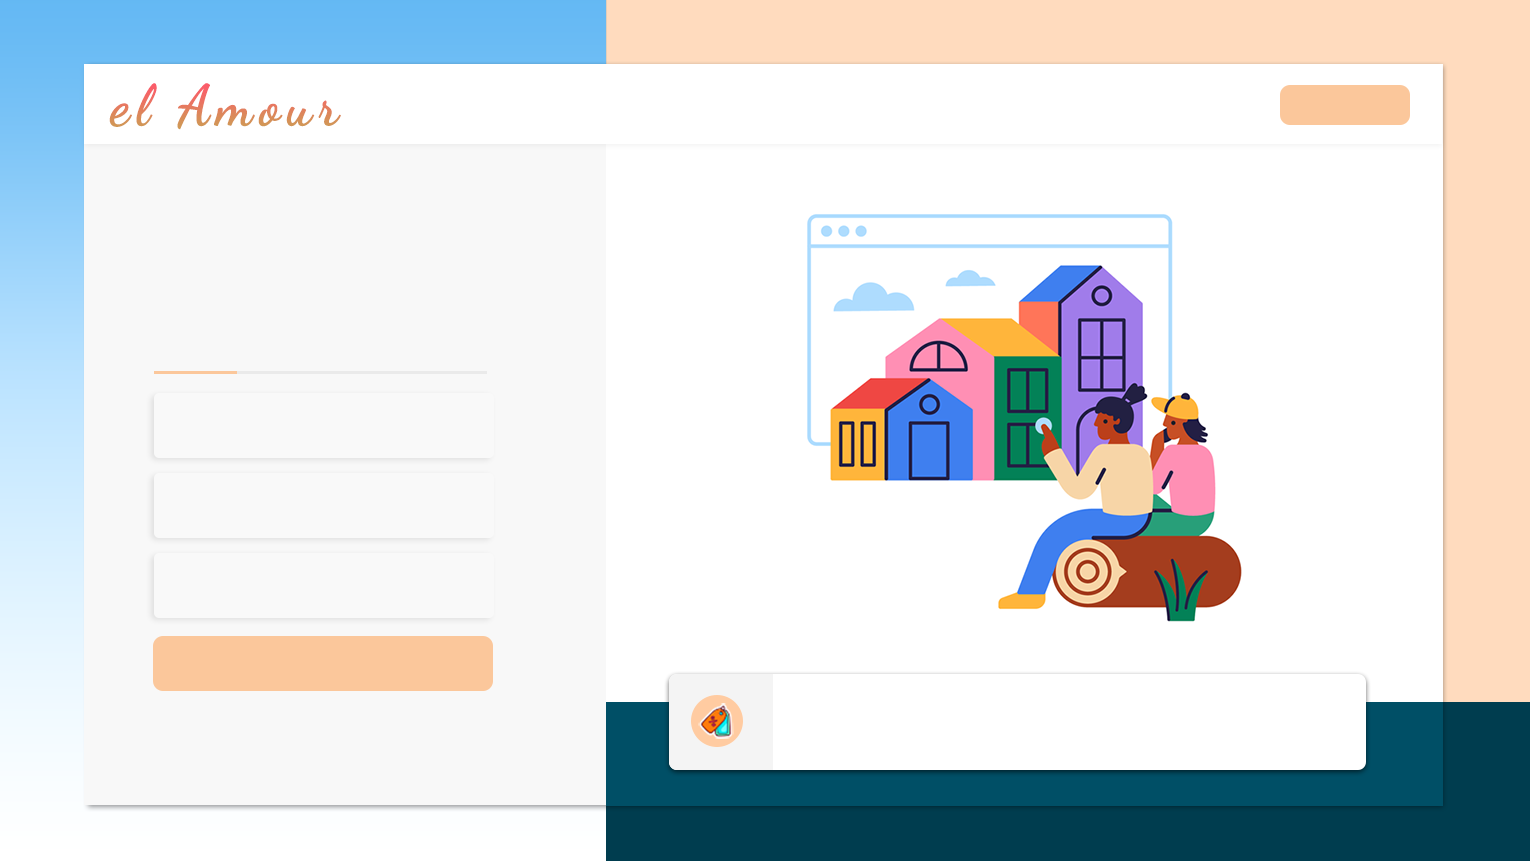
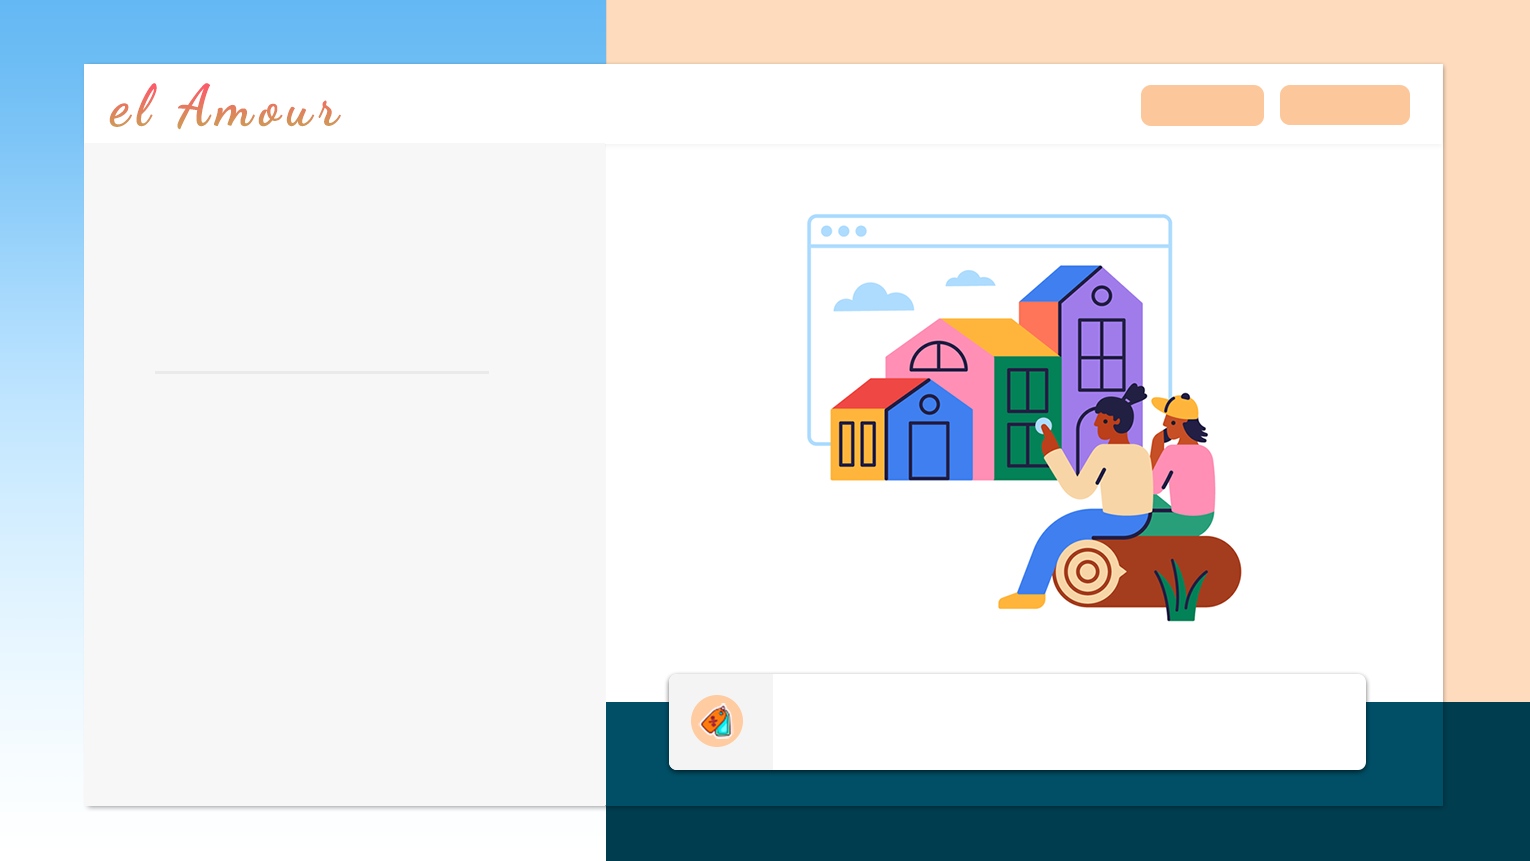
Add files via upload

Changed region(s): [[0.0922, 0.7247, 0.3379, 0.8153], [0.7373, 0.0906, 0.8294, 0.151], [0.1229, 0.4228, 0.1536, 0.453]]

diff --git a/Signup.py b/Signup.py
@@ -4,7 +4,39 @@ root=Tk()
 root.geometry("1920x1080")
 root.wm_attributes('-fullscreen', 'True')
 
-img=PhotoImage(file=r"C:\Users\Anmol\Documents\My Vasiyat\python\Meet Project\Assets\Signup_bg.png")
+def login():
+    show_frame(login_frame)
+    ul.place(x=245,y=373,width=60,height=3)
+    rg_btn.config(bg="white",fg="black",activebackground="white",activeforeground="black")
+    rg_btn.place(x=1282,y=87,width=130,height=40)
+    lg_btn.config(fg="white",bg="#fbc79b",activebackground="#fbc79b",activeforeground="white")
+    lg_btn.place(x=1148,y=90,width=115,height=35)
+
+def signup():
+    show_frame(signup_frame)
+    ul.place(x=155,y=373,width=85,height=3)
+    rg_btn.config(bg="#fbc79b",fg="white",activebackground="#fbc79b",activeforeground="white")
+    rg_btn.place(x=1290,y=90,width=115,height=35)
+    lg_btn.config(fg="black",bg="white",activebackground="white",activeforeground="black")
+    lg_btn.place(x=1143,y=87,width=123,height=41)
+
+def show_frame(frame):
+    frame.tkraise()
+
+signup_frame=Frame(root,bd=0,relief=FLAT,bg="#f7f7f7")
+
+s_img=PhotoImage(file="./Assets/Signup.png")
+Label(signup_frame,image=s_img).place(x=0,y=0)
+
+login_frame=Frame(root,relief=FLAT,bg="#f7f7f7")
+
+l_img=PhotoImage(file="./Assets/login.png")
+Label(login_frame,image=l_img).place(x=0,y=0)
+
+for frame in (signup_frame, login_frame,):
+    frame.place(x=155,y=390,width=340,height=310)
+
+img=PhotoImage(file="./Assets/Signup_bg.png")
 Label(root,image=img).place(x=0,y=0)
 
 Label(root,text="Best Price Rooms Available",font=("Arial",10,"bold"),bg="white").place(x=785,y=685)
@@ -18,29 +50,45 @@ Label(root,text="24/7 Customer Service. Hostels. Apartments. Hotels. Read Real G
 Label(root,text="Bed and Breakfasts...."
       ,font=("Abadi",8),bg="white").place(x=785,y=740)
 
-Button(root,text="Login",bd=0,font=("Arial",14),bg="white",activebackground="white",cursor="hand2").place(x=1200,y=90)
+lg_btn=Button(root,text="Login",bd=0,font=("Arial",14),bg="white",activebackground="white",cursor="hand2",command=login)
+lg_btn.place(x=1143,y=87,width=123,height=41)
 
-Button(root,text="Register",bd=0,font=("Arial",14),bg="#fbc79b",fg="white",cursor="hand2"
-       ,activebackground="#fbc79b",activeforeground="white").place(x=1305,y=90)
+rg_btn=Button(root,text="Register",bd=0,font=("Arial",14),bg="#fbc79b",fg="white",cursor="hand2"
+       ,activebackground="#fbc79b",activeforeground="white",command=signup)
+rg_btn.place(x=1290,y=90,width=115,height=35)
 
 Label(root,text="Register to El Amour",font=("carlytte demo",46,"bold"),bg="#f8f8f8").place(x=150,y=190)
 
 Label(root,text="Join to El Amour you will get the latest recommendations on the",font=("abadi",9),bg="#f8f8f8",fg="grey").place(x=155,y=280)
 Label(root,text="services given by the hotel.",font=("abadi",9),bg="#f8f8f8",fg="grey").place(x=155,y=300)
 
-Button(root,text="Register",font=("abadi",12),bg="#f8f8f8",bd=0,activebackground="#f8f8f8").place(x=162,y=340)
-Button(root,text="Login",font=("abadi",12),bg="#f8f8f8",bd=0,activebackground="#f8f8f8").place(x=250,y=340)
+Button(root,text="Register",font=("abadi",12),bg="#f8f8f8",bd=0,activebackground="#f8f8f8",cursor="hand2",command=signup).place(x=162,y=340)
+Button(root,text="Login",font=("abadi",12),bg="#f8f8f8",bd=0,activebackground="#f8f8f8",cursor="hand2",command=login).place(x=250,y=340)
 
-Label(root,text="Name",font=("abadi",8),bg="#f8f8f8",fg="grey").place(x=170,y=400)
-Entry(root,font=("arial",10),bg="#f8f8f8",width=45,bd=0).place(x=172,y=420,height=35)
+ul=Label(root,text="",bg="#fbc79b")
+ul.place(x=155,y=373,width=85,height=3)
 
-Label(root,text="Password",font=("abadi",8),bg="#f8f8f8",fg="grey").place(x=170,y=480)
-Entry(root,font=("arial",10),show="●",bg="#f8f8f8",width=45,bd=0).place(x=172,y=500,height=35)
+Label(signup_frame,text="Name",font=("abadi",8),bg="#f8f8f8",fg="grey").place(x=30,y=23)
+Entry(signup_frame,font=("arial",10),bg="#f8f8f8",width=45,bd=0).place(x=32,y=40,height=30,width=290)
 
-Label(root,text="Email",font=("abadi",8),bg="#f8f8f8",fg="grey").place(x=170,y=560)
-Entry(root,font=("arial",10),bg="#f8f8f8",width=45,bd=0).place(x=172,y=580,height=35)
+Label(signup_frame,text="Password",font=("abadi",8),bg="#f8f8f8",fg="grey").place(x=30,y=93)
+Entry(signup_frame,font=("arial",10),show="●",bg="#f8f8f8",width=45,bd=0).place(x=32,y=110,height=30,width=290)
 
-Button(root,text="Register",bd=0,width=29,font=("Arial",14),bg="#fbc79b",fg="white",cursor="hand2"
-       ,activebackground="#fbc79b",activeforeground="white").place(x=160,y=640,height=50)
+Label(signup_frame,text="Email",font=("abadi",8),bg="#f8f8f8",fg="grey").place(x=30,y=163)
+Entry(signup_frame,font=("arial",10),bg="#f8f8f8",width=45,bd=0).place(x=32,y=180,height=30,width=290)
+
+Button(signup_frame,text="Register",bd=0,font=("Arial",14),bg="#fbc79b",fg="white",cursor="hand2"
+       ,activebackground="#fbc79b",activeforeground="white").place(x=25,y=245,height=45,width=300)
+
+Label(login_frame,text="Name",font=("abadi",8),bg="#f8f8f8",fg="grey").place(x=30,y=23)
+Entry(login_frame,font=("arial",10),bg="#f8f8f8",width=45,bd=0).place(x=32,y=40,height=30,width=290)
+
+Label(login_frame,text="Password",font=("abadi",8),bg="#f8f8f8",fg="grey").place(x=30,y=93)
+Entry(login_frame,font=("arial",10),show="●",bg="#f8f8f8",width=45,bd=0).place(x=32,y=110,height=30,width=290)
+
+Button(login_frame,text="Login",bd=0,font=("Arial",14),bg="#fbc79b",fg="white",cursor="hand2"
+       ,activebackground="#fbc79b",activeforeground="white").place(x=27,y=178,height=45,width=300)
+
+show_frame(signup_frame)
 
 root.mainloop()

diff --git a/Main.py b/Main.py
@@ -1,10 +1,23 @@
 from tkinter import *
+import os
 
 root=Tk()
 root.geometry("1920x1080")
 root.wm_attributes('-fullscreen', 'True')
 
-img=PhotoImage(file=r"C:\Users\Anmol\Documents\My Vasiyat\python\Meet Project\Assets\Main_bg.png")
+def open_signup():
+    filename="signup.py"
+    os.system(filename)
+
+def open_bk():
+    filename="book.py"
+    os.system(filename)
+
+def open_login():
+    filename="login.py"
+    os.system(filename)
+
+img=PhotoImage(file="./Assets/Main_bg.png")
 Label(root,image=img).place(x=0,y=0)
 
 Label(root,text="BEST HOTEL",bg="#171841",fg="white",font=("bebas neue",78, "bold")).place(x=1040,y=150)
@@ -23,21 +36,27 @@ Label(root,text="Enjoy Your Vacations With Us",bg="#171841"
       ,fg="white",font=("bebas neue",22,"bold")).place(x=1150,y=520)
 
 book=Button(root,text="Book Now",bg="#cf9a55",bd=0,activebackground="#cf9a55"
-            ,activeforeground="white",fg="white",font=("Caramel Sweets",20)).place(x=1260,y=600)
+            ,activeforeground="white",fg="white",font=("Caramel Sweets",20),cursor="hand2",command=open_bk)
+book.place(x=1260,y=598)
 
-signin=Button(root,text="SIGN IN",bg="#cf9a55",bd=0,activebackground="#cf9a55"
-            ,activeforeground="white",fg="white",font=("Roboto",15)).place(x=1404,y=21)
+signup=Button(root,text="SIGN UP",bg="#cf9a55",bd=0,activebackground="#cf9a55"
+            ,activeforeground="white",fg="white",font=("Roboto",15),cursor="hand2",command=open_signup)
+signup.place(x=1400,y=23)
 
 login=Button(root,text="LOGIN",bg="#171841",bd=0,activebackground="#171841"
-            ,activeforeground="white",fg="white",font=("Roboto",15)).place(x=1260,y=21)
+            ,activeforeground="white",fg="white",font=("Roboto",15),cursor="hand2",command=open_login)
+login.place(x=1265,y=21)
 
 review=Button(root,text="REVIEWS",bg="#171841",bd=0,activebackground="#171841"
-            ,activeforeground="white",fg="white",font=("Roboto",15)).place(x=1130,y=21)
+            ,activeforeground="white",fg="white",font=("Roboto",15),cursor="hand2")
+review.place(x=1130,y=21)
 
 contact=Button(root,text="CONTACTS",bg="#171841",bd=0,activebackground="#171841"
-            ,activeforeground="white",fg="white",font=("Roboto",15)).place(x=980,y=21)
+            ,activeforeground="white",fg="white",font=("Roboto",15),cursor="hand2")
+contact.place(x=980,y=21)
 
 home=Button(root,text="HOME",bg="#171841",bd=0,activebackground="#171841"
-            ,activeforeground="white",fg="white",font=("Roboto",15)).place(x=875,y=21)
+            ,activeforeground="white",fg="white",font=("Roboto",15),cursor="hand2")
+home.place(x=875,y=21)
 
 root.mainloop()

diff --git a/Login.py b/Login.py
@@ -4,7 +4,7 @@ root=Tk()
 root.geometry("1920x1080")
 root.wm_attributes('-fullscreen', 'True')
 
-img=PhotoImage(file=r"C:\Users\Anmol\Documents\My Vasiyat\python\Meet Project\Assets\login_bg.png")
+img=PhotoImage(file="./Assets/login_bg.png")
 Label(root,image=img).place(x=0,y=0)
 
 Label(root,text="Sign In",font=("Flourissha",60),bg="white").place(x=700,y=110)
